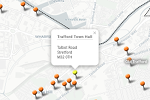
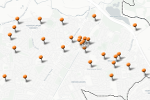
Content alteration for Explore description and new thumbnail for defibrillators map.

diff --git a/maps.html b/maps.html
@@ -51,7 +51,7 @@
                 <h2>Tools</h2>
                 <div>
                     <a href="https://www.trafforddatalab.io/maps/explore"><img src="images/explore_thumbnail.png" class="thumbnail" alt="Explore Trafford" border="0"/><strong>Explore Trafford</strong></a><br />
-                    Discover the different geographic areas of Trafford as well as visualise all our spatial datasets in one application. Use the geolocation facility (on supported devices with the users' permission) to see where you are and discover what is around you.
+                    Discover the different geographic areas of Trafford and visualise all of our spatial datasets in one application. Use the geolocation facility (on supported devices with the user's permission) to see where you are and discover what is around you.
                 </div>
 
                 <br class="noFloat"/>
